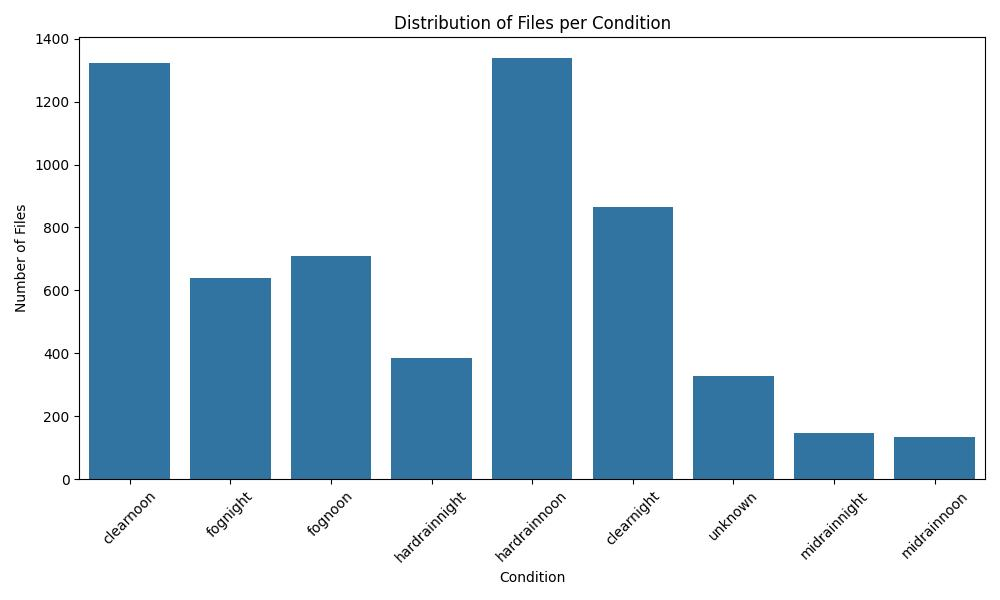
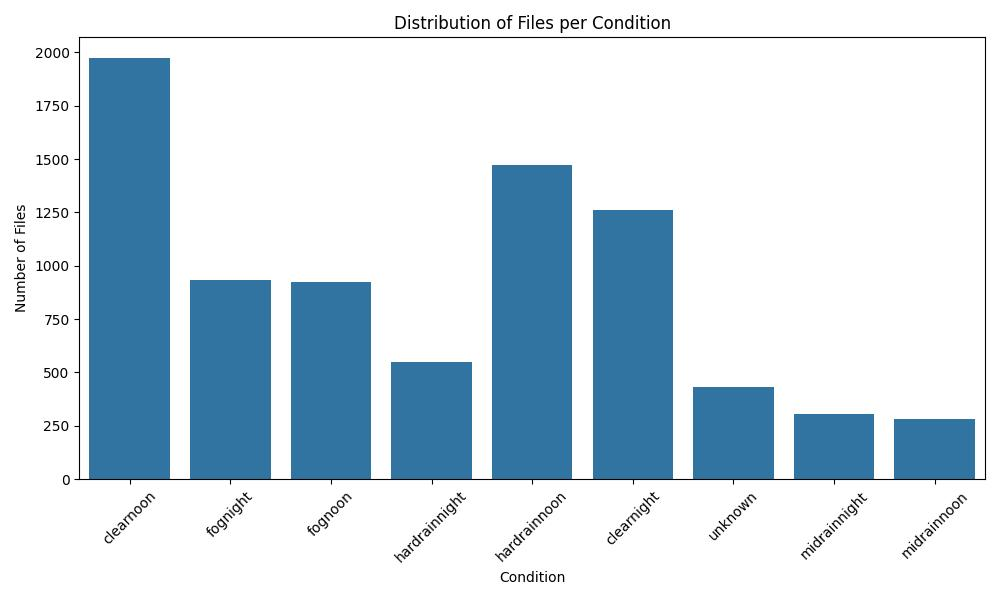
modified:   Script/analyze_file_composition.py 	new file:   Script/data_augmentation.py 	modified:   figure_distribution/category_condition_distribution.jpg 	modified:   figure_distribution/category_distribution.jpg 	modified:   figure_distribution/condition_distribution.jpg 	modified:   figure_dist

diff --git a/Script/data_augmentation.py b/Script/data_augmentation.py
@@ -1,0 +1,74 @@
+import numpy as np
+import os
+import random
+from scipy.ndimage import gaussian_filter
+
+def load_tensor(file_path):
+    return np.load(file_path)
+
+def save_tensor(tensor, file_path, file_name_augmented):
+    np.save(file_path + '\\' + file_name_augmented, tensor)
+
+def augment_tensor_smoothing(tensor):
+
+    # Gaussian smoothing
+    if random.choice([True, False]):
+        sigma = random.uniform(0.5, 1.5)
+        tensor = gaussian_filter(tensor, sigma=sigma)
+
+    return tensor
+
+def augment_tensor_noise(tensor):
+    # Adding Gaussian noise
+    if random.choice([True, False]):
+        noise = np.random.normal(0, 0.01, tensor.shape)
+        tensor = tensor + noise
+        tensor = np.clip(tensor, 0, 1)
+
+    return tensor
+
+def augment_dataset(base_dir, output_dir, categories, target_size=2000):
+    for category in categories:
+        category_dir = os.path.join(base_dir, category)
+        files = [os.path.join(category_dir, f) for f in os.listdir(category_dir) if f.endswith('.npy')]
+        count = len(files)
+        output_path = os.path.join(output_dir, category)
+        if not os.path.exists(os.path.join(output_dir, category)):
+            os.makedirs(os.path.join(output_dir, category))
+                    
+
+        if count < target_size:
+            num_to_augment = target_size - count
+            i = 0
+            for file_to_augment in files:
+                if 'original' in file_to_augment.lower() and i in range(num_to_augment):
+                    tensor = load_tensor(file_to_augment)
+                    base_name_files = os.path.splitext(file_to_augment)[0]
+                    augmented_tensor_smoothing = augment_tensor_smoothing(tensor)
+                    file_name_augmented = base_name_files.split('\\')[-1] + f'_augmented_smoothing_{i}.npy'
+                    print(file_name_augmented)
+                    i +=1
+                    augmented_tensor_noise = None
+                    file_name_augmented2 = None
+                    if i in range(num_to_augment):
+                        augmented_tensor_noise = augment_tensor_noise(tensor)
+                        file_name_augmented2 = base_name_files.split('\\')[-1] + f'_augmented_noise_{i}.npy'
+                        print(file_name_augmented2)
+                        i +=1
+                    
+                    save_tensor(augmented_tensor_smoothing, output_path, file_name_augmented)
+                    if augmented_tensor_noise is not None or file_name_augmented2 is not None:
+                        save_tensor(augmented_tensor_noise, output_path, file_name_augmented2)   
+
+def main():
+    base_dir = 'C:\\Users\\rocco\\OneDrive\\Desktop\\DMRC-1\\PROCESSED_Dataset\\PROCESSED_Dataset'
+    output_dir = 'C:\\Users\\rocco\\OneDrive\\Desktop\\DMRC-1\\PROCESSED_Dataset\\augmented_dataset'
+    categories = ['SPEED_LIMITER_30', 'SPEED_LIMITER_60', 'SPEED_LIMITER_90', 'STOP_SIGN']
+    
+    if not os.path.exists(output_dir):
+        os.makedirs(output_dir)
+    
+    augment_dataset(base_dir, output_dir, categories, target_size=2000)
+
+if __name__ == "__main__":
+    main()

diff --git a/Script/analyze_file_composition.py b/Script/analyze_file_composition.py
@@ -3,7 +3,7 @@ import pandas as pd
 import matplotlib.pyplot as plt
 import seaborn as sns
 
-def analyze_files_in_directory(base_dir, categories):
+def analyze_files_in_directory(base_dir, base_augmented_dir, categories):
     data = []
     weather_conditions = ['clearnoon', 'clearnight', 'fognoon', 'fognight', 
                           'hardrainnoon', 'hardrainnight', 'midrainnoon', 'midrainnight']
@@ -14,6 +14,18 @@ def analyze_files_in_directory(base_dir, categories):
             for file in files:
                 file_path = os.path.join(root, file)
                 file_type = 'origin' if 'original' in file.lower() else 'cropped'
+                condition = 'unknown'
+                for weather in weather_conditions:
+                    if weather in file.lower():
+                        condition = weather
+                        break
+                data.append({'Category': category, 'File_Type': file_type, 'Condition': condition, 'File_Path': file_path})
+        
+        augmented_dir = os.path.join(base_augmented_dir, category)
+        for root, dirs, files in os.walk(augmented_dir):
+            for file in files:
+                file_path = os.path.join(root, file)
+                file_type = 'origin_augmented' if 'original' in file.lower() else 'cropped'
                 condition = 'unknown'
                 for weather in weather_conditions:
                     if weather in file.lower():
@@ -72,9 +84,10 @@ def visualize_data(file_path):
 
 def main():
     base_dir = 'C:\\Users\\rocco\\OneDrive\\Desktop\\DMRC-1\\PROCESSED_Dataset\\PROCESSED_Dataset'
+    base_augmented_dir = 'C:\\Users\\rocco\\OneDrive\\Desktop\\DMRC-1\\PROCESSED_Dataset\\augmented_dataset'
     categories = ['SPEED_LIMITER_30', 'SPEED_LIMITER_60', 'SPEED_LIMITER_90', 'STOP_SIGN']
     
-    df = analyze_files_in_directory(base_dir, categories)
+    df = analyze_files_in_directory(base_dir, base_augmented_dir, categories)
     print(df.head())
     
     # Save the composition of files in a CSV
